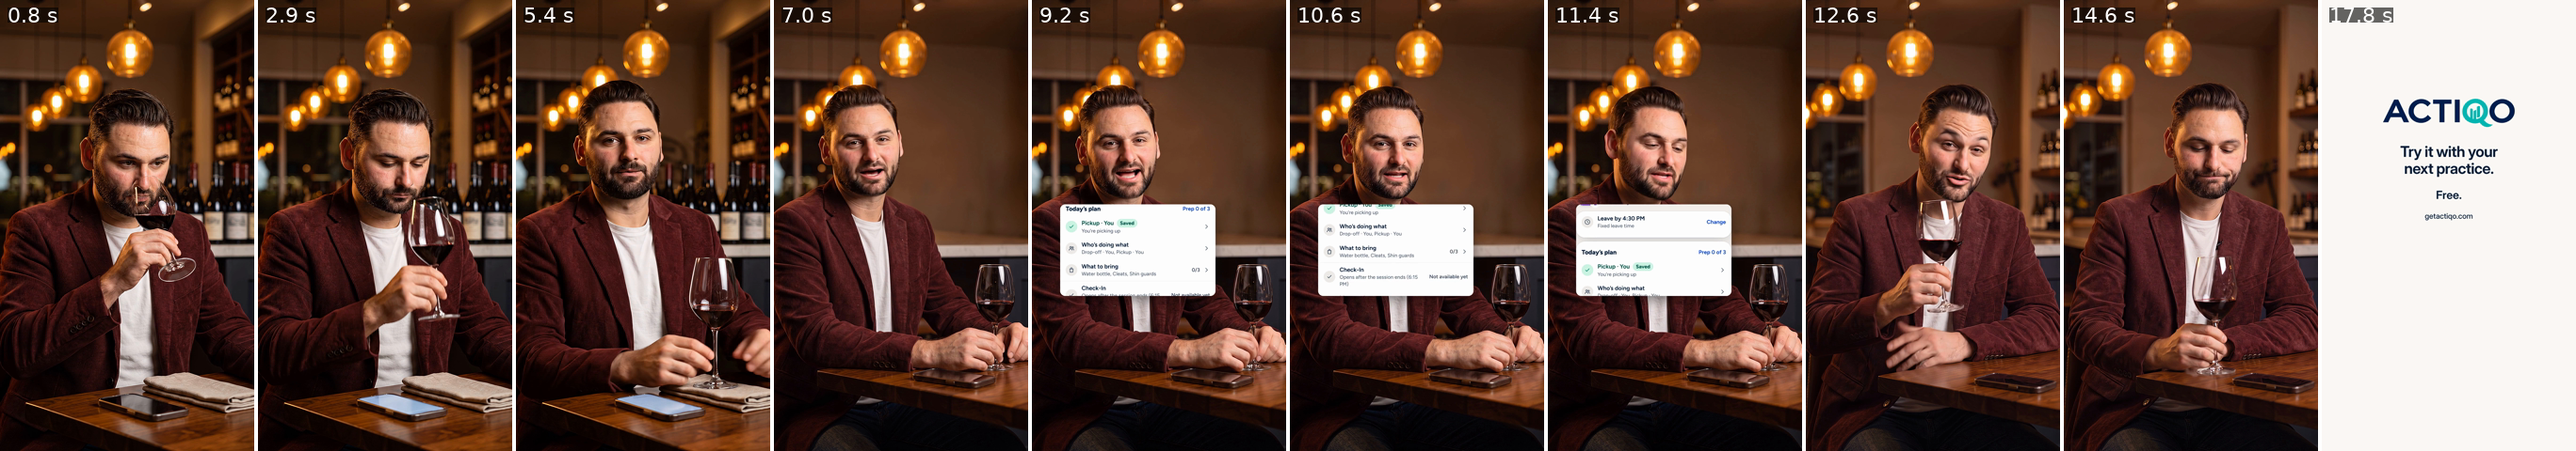
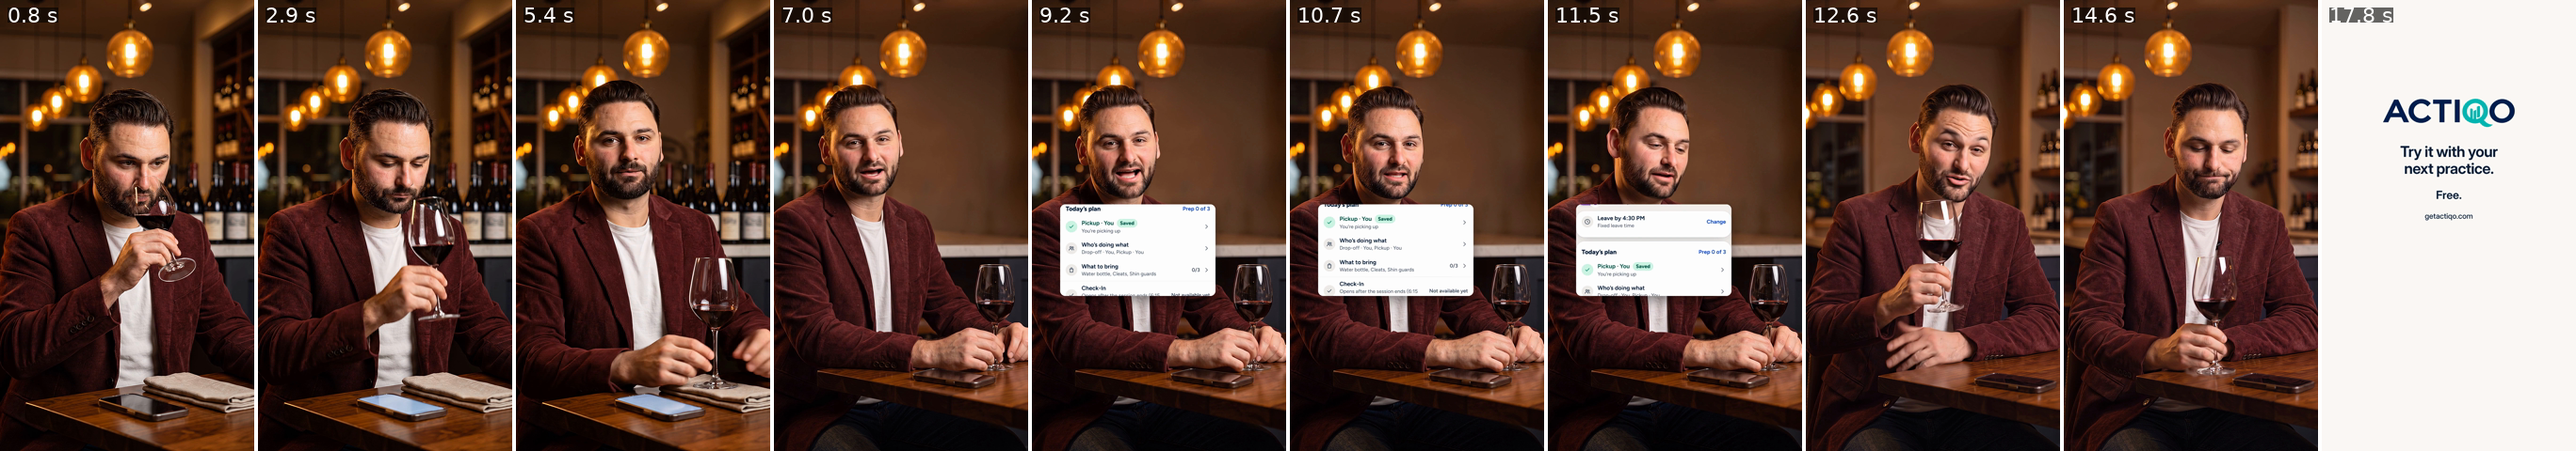
D04 FINAL: promote founder timing +0.17 s (LOCKED) — canonical full-sound master e8aac74c, music-free 72240256 (same timing, audio padded to 19.40 s), clean picture 08713aca (pans +0.17, audio copied from canonical); FINAL.md updated; voiced.mjs default delay 0.17; review-lite packages the new final

Changed region(s): [[0.4971, 0.4375, 0.5592, 0.6562], [0.6213, 0.1875, 0.6524, 0.4375]]

diff --git a/gtm/d04-tasting-notes/edit/rough/index.html b/gtm/d04-tasting-notes/edit/rough/index.html
@@ -40,13 +40,13 @@
       <div id="title" class="clip" data-start="0" data-duration="2.6" data-track-index="4"><span>TASTING NOTES<br>OF PARENTHOOD</span></div>
       <div id="cap0" class="cap clip" data-start="0.2" data-duration="1.95" data-track-index="5"><span>Notes of blackberry. Hints of oak.</span></div>
       <div id="cap1" class="cap clip" data-start="2.72" data-duration="3.08" data-track-index="5"><span>Twelve texts about tomorrow’s soccer practice.</span></div>
-      <div id="cap2" class="cap clip" data-start="6.1" data-duration="2.5" data-track-index="5"><span>I’m Alec, the dad behind Cork Connoisseur.</span></div>
-      <div id="cap3" class="cap clip cap-top" data-start="8.65" data-duration="3.35" data-track-index="5"><span>I also built ACTIQO to keep pickup, packing and leave times together.</span></div>
+      <div id="cap2" class="cap clip" data-start="6.27" data-duration="2.5" data-track-index="5"><span>I’m Alec, the dad behind Cork Connoisseur.</span></div>
+      <div id="cap3" class="cap clip cap-top" data-start="8.82" data-duration="3.18" data-track-index="5"><span>I also built ACTIQO to keep pickup, packing and leave times together.</span></div>
       <div id="cap4" class="cap clip" data-start="12.1" data-duration="1.75" data-track-index="5"><span>Try it with your next practice.</span></div>
       <div id="cap5" class="cap clip" data-start="13.9" data-duration="3" data-track-index="5"><span>Then we can get back to the tasting notes.</span></div>
       <!-- Layout B: ONE real Game Plan (capture src 1.2 → settled state), window panned pickup → What to bring → leave time -->
       <div id="prod" data-layout-allow-overflow><div id="pan">
-        <video id="ui" class="clip" src="assets/ui.mp4" data-start="8.65" data-duration="3.35" data-media-start="1.20" data-track-index="2" muted playsinline></video>
+        <video id="ui" class="clip" src="assets/ui.mp4" data-start="8.82" data-duration="3.18" data-media-start="1.20" data-track-index="2" muted playsinline></video>
       </div></div>
       <div id="endcard" class="clip" data-start="16.9" data-duration="2.5" data-track-index="6">
         <img id="ec-wordmark" src="assets/actiqo-wordmark.png" alt="ACTIQO" />
@@ -60,15 +60,15 @@
       tl.fromTo('#title', { opacity: 0 }, { opacity: 1, duration: 0.15 }, 0);
       tl.fromTo('#cap0', { opacity: 0 }, { opacity: 1, duration: 0.10 }, 0.2);
       tl.fromTo('#cap1', { opacity: 0 }, { opacity: 1, duration: 0.10 }, 2.72);
-      tl.fromTo('#cap2', { opacity: 0 }, { opacity: 1, duration: 0.10 }, 6.1);
-      tl.fromTo('#cap3', { opacity: 0 }, { opacity: 1, duration: 0.10 }, 8.65);
+      tl.fromTo('#cap2', { opacity: 0 }, { opacity: 1, duration: 0.10 }, 6.27);
+      tl.fromTo('#cap3', { opacity: 0 }, { opacity: 1, duration: 0.10 }, 8.82);
       tl.fromTo('#cap4', { opacity: 0 }, { opacity: 1, duration: 0.10 }, 12.1);
       tl.fromTo('#cap5', { opacity: 0 }, { opacity: 1, duration: 0.10 }, 13.9);
       tl.set('#pan', { y: -425 }, 0);
-      tl.fromTo('#prod', { opacity: 0, y: 24 }, { opacity: 1, y: 0, duration: 0.30, ease: 'power2.out' }, 8.65);
+      tl.fromTo('#prod', { opacity: 0, y: 24 }, { opacity: 1, y: 0, duration: 0.30, ease: 'power2.out' }, 8.82);
       tl.set('#prod', { opacity: 0 }, 12);
-      tl.to('#pan', { y: -640, duration: 0.40, ease: 'power2.inOut' }, 10.42);  // "packing"
-      tl.to('#pan', { y: -240, duration: 0.45, ease: 'power2.inOut' }, 10.92);  // "leave times together"
+      tl.to('#pan', { y: -640, duration: 0.40, ease: 'power2.inOut' }, 10.59);  // "packing"
+      tl.to('#pan', { y: -240, duration: 0.45, ease: 'power2.inOut' }, 11.09);  // "leave times together"
       tl.to('#ec-wordmark', { opacity: 1, duration: 0.30 }, 16.9);
       tl.fromTo('#ec-cta', { opacity: 0, y: 14 }, { opacity: 1, y: 0, duration: 0.35 }, 16.93);
       tl.to('#ec-price', { opacity: 1, duration: 0.30 }, 16.95);

diff --git a/gtm/d04-tasting-notes/FINAL.md b/gtm/d04-tasting-notes/FINAL.md
@@ -1,13 +1,13 @@
-# D04 "Tasting Notes of Parenthood": Cork Connoisseur × ACTIQO · FINAL (closed 2026-11-22, NOT published)
+# D04 "Tasting Notes of Parenthood": Cork Connoisseur × ACTIQO · FINAL (closed 2026-11-22, founder timing +0.17 s LOCKED; NOT published)
 
 **Use:** **organic Cork Connoisseur posting first** (the user's decision). The wine-tasting setup is intentional. It isn't optimised for paid ads; a paid ACTIQO version would be a separate, alcohol-free cut. **Publishing requires separate approval from the owner.**
 
 ## Deliverables (`final/`)
 | File | What | SHA-256 |
 |---|---|---|
[6 lines of base64/hex data omitted]
 | `…_contact.png`, `…_clean_picture_contact.png` | Contact sheets | |
 
 **Format:** 1080×1920 (9:16), 30 fps, H.264 High (CRF 17), AAC-LC 320 kb/s 48 kHz.
@@ -17,9 +17,11 @@
 
 | Master | Integrated | True peak |
 |---|---|---|
-| Full | −14.3 LUFS | −1.8 dBTP |
-| Music-free | −14.2 LUFS | −1.9 dBTP |
+| Full (canonical) | −14.3 LUFS | −1.8 dBTP |
+| Music-free | −14.2 LUFS | −1.8 dBTP |
 | Clean picture | −14.3 LUFS | −1.8 dBTP |
+
+Video and audio streams all start at 0.000 and run 19.40 s.
 
 **Captions:** every caption sits inside the TikTok/Reels/Shorts safe areas (HyperFrames check passes).
 
@@ -27,10 +29,28 @@
 | t (s) | Picture | Voice (Alec's REAL recording) |
 |---|---|---|
 | 0.00–6.00 | **Locked opener** (Veo Fast v01, full 6 s). Title "TASTING NOTES OF PARENTHOOD" 0–2.6 (Cork burgundy `#8B3E3D` / tan `#E9D6B4`). | Take 1, **voice-over**: "Notes of blackberry. Hints of oak." (over the sniff) · natural 0.76 s pause · "Twelve texts about tomorrow's soccer practice." (phone glow → glance → deadpan) |
-| 6.00–12.00 | **Locked founder clip, lip-synced** (real speed, 6 s) | Take 2: "I'm Alec, the dad behind Cork Connoisseur." |
-| 8.65–12.00 | + **real ACTIQO Layout B**: one real Game Plan window (660 px, lower safe area) panned in spoken order: **Pickup · You · Saved → What to bring · Water bottle, Cleats, Shin guards · 0/3 → Leave by 4:30 PM · Fixed leave time** | Take 2: "I also built ACTIQO to keep pickup, packing and leave times together." |
+| 6.00–12.00 | **Locked founder clip, lip-synced** (real speed, 6 s). Founder caption 6.27–8.77. | Take 2: "I'm Alec, the dad behind Cork Connoisseur." (placed 6.27; audible onset **6.10**) |
+| 8.82–12.00 | + **real ACTIQO Layout B**: one real Game Plan window (660 px, lower safe area), in at 8.82, panned in spoken order: **Pickup · You · Saved → What to bring · Water bottle, Cleats, Shin guards · 0/3** (pan 10.59) **→ Leave by 4:30 PM · Fixed leave time** (pan 11.09). Product caption 8.82–12.00. | Take 2: "I also built ACTIQO to keep pickup, packing and leave times together." (placed 8.82; ends ≈11.90, ≈50 ms clean gap before the closing "Try") |
 | 12.00–16.90 | **Locked closing** (Veo Fast v01, src 0.0–4.9, clean cut) | Take 2: "Try it with your next practice." (to camera, natural mouth movement) · "Then we can get back to the tasting notes." (**voice-over** while his eyes return to the wine) |
 | 16.90–19.40 | **ACTIQO end card:** ACTIQO · Try it with your next practice. · **Free.** · getactiqo.com | soft chime |
+
+## Founder timing correction: +0.17 s (LOCKED 2026-11-22, no spend)
+**Shifted:** the founder-section audio (both founder/product lines), the founder and product captions, and the ACTIQO window entry and pans, all by **+0.17 s**.
+
+**Why:** the real voice lines play **≈0.17 s earlier** than their nominal placement, because of the AAC decode/priming of the phone memos at the trim points. Before the fix, "I'm" started at 5.93 s, before the cut to the founder shot, and the lip-synced mouth read as trailing the voice. +0.17 s directly compensates that offset ("I'm" now at 6.10 s). +0.22 s was tested and rejected: "together." collided with the closing "Try".
+
+**Not changed:** the founder video (no lip-sync re-run), opener, closing picture and voice, end card, voice recordings, script, all clip timings.
+
+**Verified against the pre-correction master:**
+- **Pictures:** opener SSIM 0.996 (re-encode only), closing **1.000**, end card **1.000**. The founder section differs only in caption and pan timing (0.97–0.98).
+- **Closing words:** identical onsets/pauses to 10 ms; closing level −14.6 LUFS both.
+- **No closing trim needed:** the closing take has no leading breath; its first sound is the "T" of "Try".
+- **Music-free master:** its AAC stream (19.20 s, also present in the earlier music-free master) is padded with 0.2 s of silence to 19.40 s; the content is unchanged.
+- **Clean master:** closing SSIM 0.992 against the previous clean master. That's uniform re-encode noise from the fresh textless render; the clip and timing are unchanged.
+
+**Source:** `edit/rough/voiced.mjs` (`D04_FOUNDER_DELAY` defaults to 0.17; set it to 0 to reproduce the pre-correction master).
+
+**Superseded masters (pre-correction):** full `0098be2d…b5af`, music-free `53014151…5c58`, clean `f762ff03…b693`. They're in git history (`847431e`) and the review-lite comparison file `edit/rough/review/timing_test/d04_timing_A_current.mp4`.
 
 ## Voice: real recording only (no clone, no TTS)
 Source: two phone voice memos recorded by Alec (moved to `audio/source/` on 2026-11-22; bytes unchanged): Take 1 = `gtm/d04-tasting-notes/audio/source/d04_alec_voice_take1.m4a`, Take 2 = `gtm/d04-tasting-notes/audio/source/d04_alec_voice_take2.m4a`.

diff --git a/gtm/d04-tasting-notes/README.md b/gtm/d04-tasting-notes/README.md
@@ -1,6 +1,6 @@
 # D04 "Tasting Notes of Parenthood": Cork Connoisseur × ACTIQO (organic, ~22 s, 9:16)
 
-**Status 2026-11-22: FINAL** (`FINAL.md`, masters in `final/`). **Not published**: publishing needs separate owner approval. D04 total $2.90.
+**Status 2026-11-22: FINAL** (`FINAL.md`, masters in `final/`), founder timing +0.17 s LOCKED. **Not published**: publishing needs separate owner approval. D04 total $2.90.
 
 **User decisions (2026-11-21):**
 - **Use:** ORGANIC Cork Connoisseur posting first. The wine setup is intentional. A paid ACTIQO cut would be a separate alcohol-free version.
